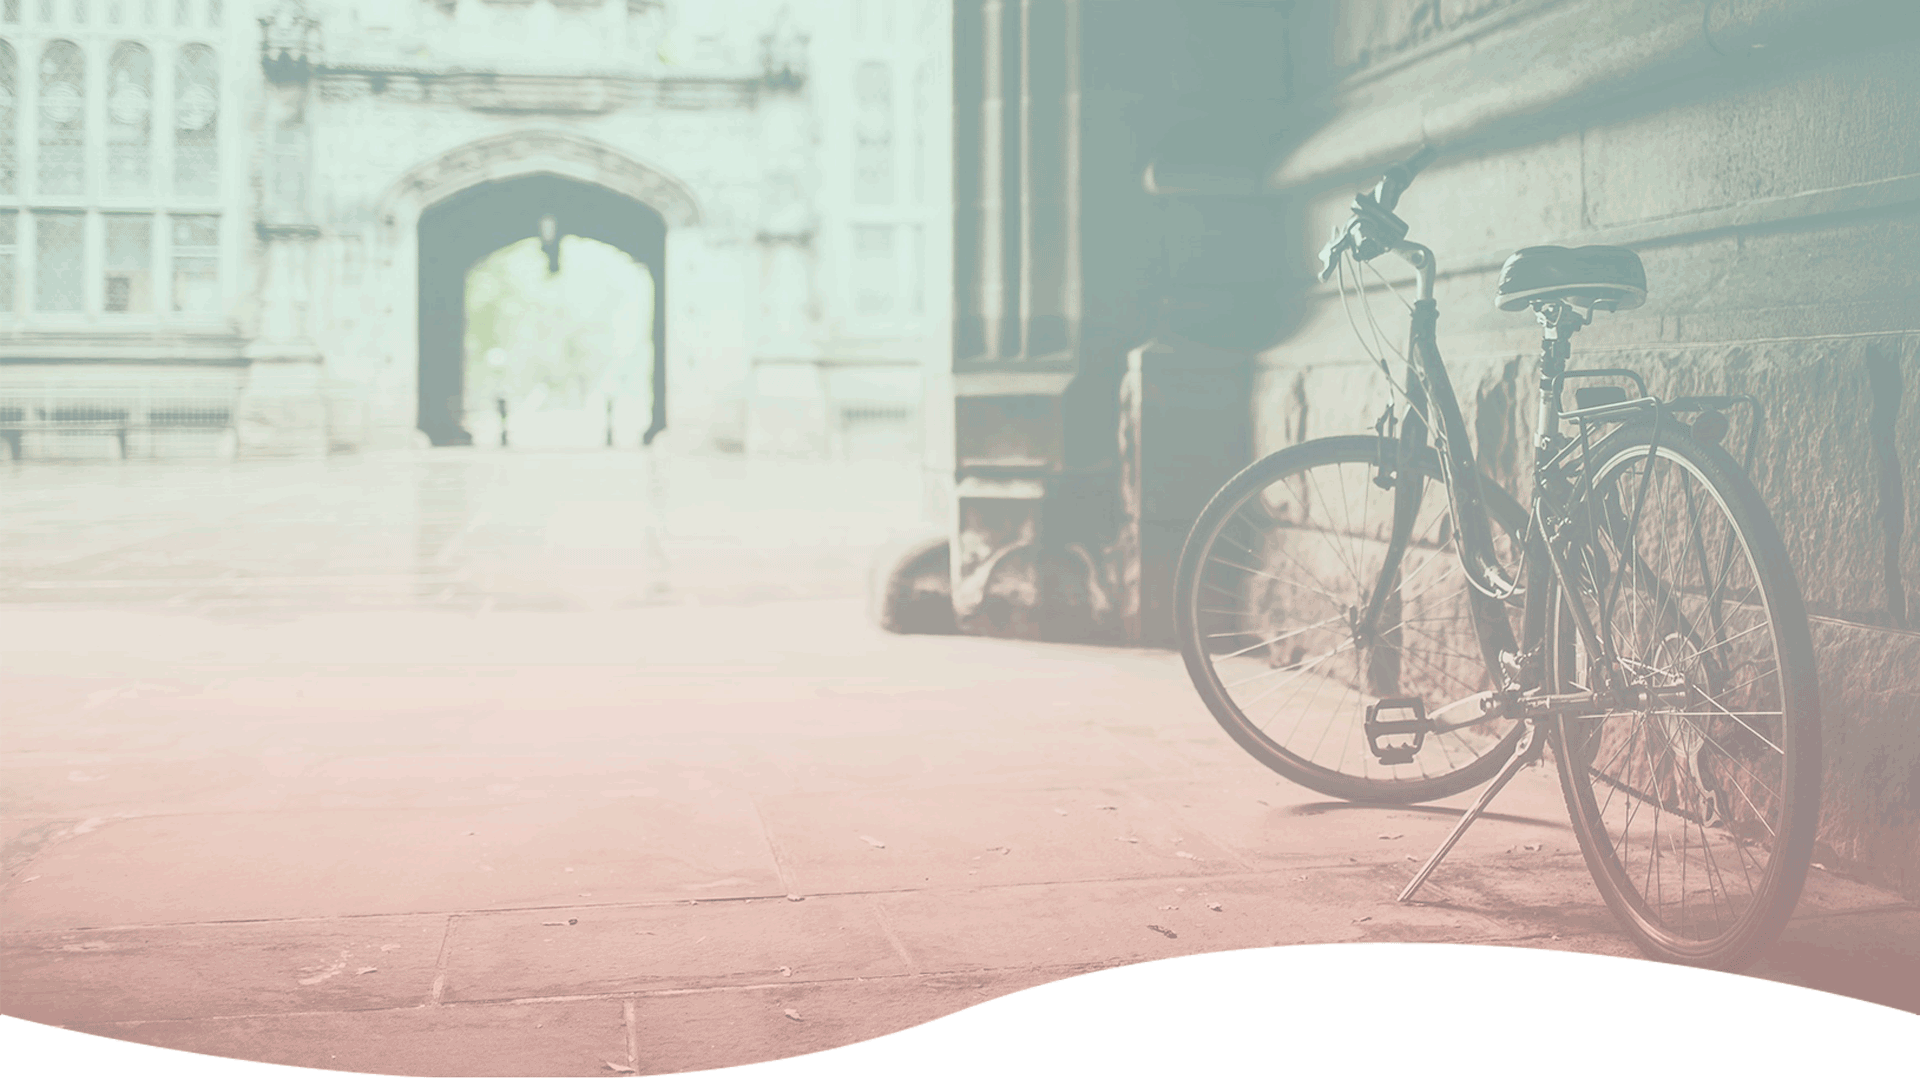
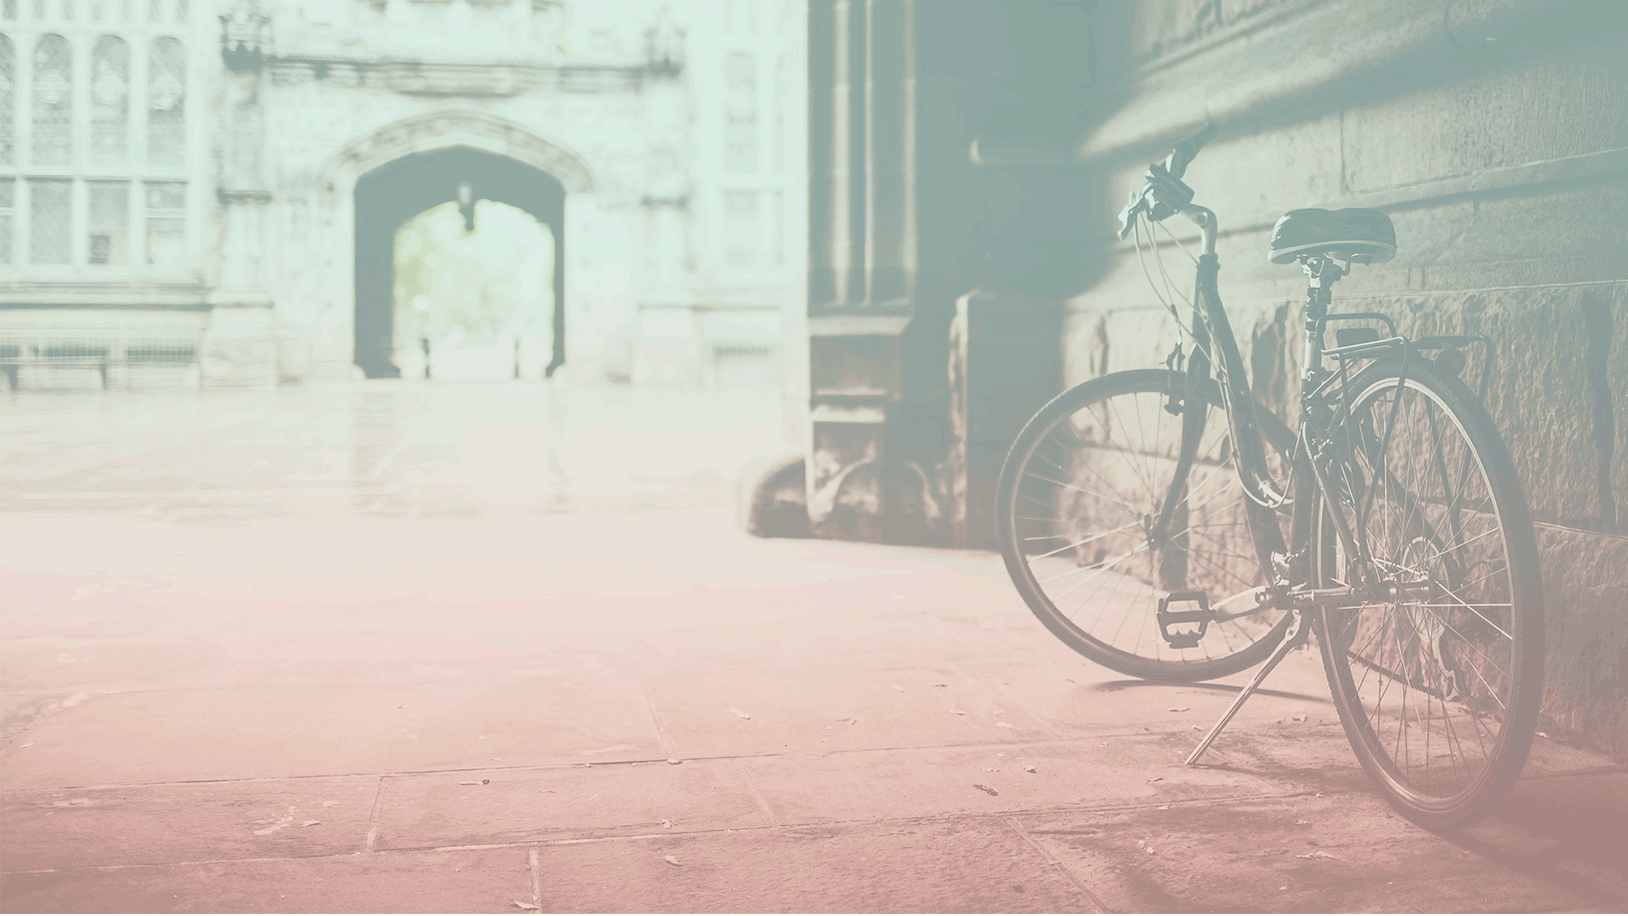
mise en place de la vague en svg et image header

Changed region(s): [[0.3378, 0.8559, 1.0, 1.0], [0.0, 0.917, 0.215, 1.0]]

diff --git a/gulpfile.js b/gulpfile.js
@@ -33,7 +33,7 @@ function styles() {
     ]))
     .pipe($.if(!isProd, $.sourcemaps.write()))
     .pipe(dest('.tmp/styles'))
-    .pipe(server.reload({stream: true}));
+    .pipe(server.reload({ stream: true }));
 };
 
 function scripts() {
@@ -43,7 +43,7 @@ function scripts() {
     .pipe($.babel())
     .pipe($.if(!isProd, $.sourcemaps.write('.')))
     .pipe(dest('.tmp/scripts'))
-    .pipe(server.reload({stream: true}));
+    .pipe(server.reload({ stream: true }));
 };
 
 async function modernizr() {
@@ -78,7 +78,7 @@ async function modernizr() {
 const lintBase = files => {
   return src(files)
     .pipe($.eslint({ fix: true }))
-    .pipe(server.reload({stream: true, once: true}))
+    .pipe(server.reload({ stream: true, once: true }))
     .pipe($.eslint.format())
     .pipe($.if(!server.active, $.eslint.failAfterError()));
 }
@@ -93,13 +93,13 @@ function lintTest() {
 
 function html() {
   return src('app/*.html')
-    .pipe($.useref({searchPath: ['.tmp', 'app', '.']}))
-    .pipe($.if(/\.js$/, $.uglify({compress: {drop_console: true}})))
-    .pipe($.if(/\.css$/, $.postcss([cssnano({safe: true, autoprefixer: false})])))
+    .pipe($.useref({ searchPath: ['.tmp', 'app', '.'] }))
+    .pipe($.if(/\.js$/, $.uglify({ compress: { drop_console: true } })))
+    .pipe($.if(/\.css$/, $.postcss([cssnano({ safe: true, autoprefixer: false })])))
     .pipe($.if(/\.html$/, $.htmlmin({
       collapseWhitespace: true,
       minifyCSS: true,
-      minifyJS: {compress: {drop_console: true}},
+      minifyJS: { compress: { drop_console: true } },
       processConditionalComments: true,
       removeComments: true,
       removeEmptyAttributes: true,
@@ -125,8 +125,8 @@ function extras() {
     'app/*',
     '!app/*.html'
   ], {
-    dot: true
-  }).pipe(dest('dist'));
+      dot: true
+    }).pipe(dest('dist'));
 };
 
 function clean() {
@@ -135,7 +135,7 @@ function clean() {
 
 function measureSize() {
   return src('dist/**/*')
-    .pipe($.size({title: 'build', gzip: true}));
+    .pipe($.size({ title: 'build', gzip: true }));
 }
 
 const build = series(

diff --git a/app/styles/main.scss b/app/styles/main.scss
@@ -16,11 +16,16 @@ body {
   background-color: #fffff0;
   font-family: 'Open sans', Arial, Helvetica, sans-serif;
   color: #323232;
+  overflow-X: hidden;
 }
 
 h1, h2, h3{
   font-family: 'Nunito', 'Open sans', Arial, Helvetica, sans-serif;
   text-align: center;
+}
+
+h2{
+  color: #f56358;
 }
 
 /*NAVIGATION*/
@@ -42,14 +47,10 @@ nav{
 header {
   padding-top:70px; 
   background: url(../images/Header.png) no-repeat center center fixed; 
-  -webkit-background-size: cover;
-  -moz-background-size: cover;
-  -o-background-size: cover;
   background-size: cover;
   height: 100vh;
   display: flex;
   align-items: center;
-  min-height: 500px;
 }
 
 #banniere{
@@ -68,9 +69,28 @@ h1{
   border: #fffff0 solid 3px;
 }
 
+.fa-chevron-down{
+  color: #fffff0;
+  font-size: 3em;
+  position: absolute;
+  top: 80%;
+}
+
+/* FONCTIONNEMENT */
+
+#vague{
+  position: relative;
+  width: 101%;
+  top:-100px;
+}
+
+#fonctionnement{
+  
+}
+
 /* [class*="col-"], footer {
   background-color: lightgreen;
-  border: 2px solid black;
+  outline: 2px solid black;
   border-radius: 6px;
   line-height: 40px;
   text-align: center;

diff --git a/app/index.html b/app/index.html
@@ -65,9 +65,24 @@
           <h1>La location de vélo en libre service à petit prix</h1>
         </div>
       </div>
+      <div class="row">
+        <div class="col-xs-1 mx-auto">
+          <i class="fas fa-chevron-down"></i>
+        </div>
+      </div>
     </div>
   </header>
 
+  <section id="fonctionnement">
+    <img src="images/Vague.svg" alt="" id="vague">
+    <div class="container">
+      <div class="row">
+        <div class="col-xs-8 mx-auto">
+          <h2>Comment ça fonctionne ?</h2>
+        </div>
+      </div>
+    </div>
+  </section>
 
   <script type="text/javascript" src="/node_modules/jquery/dist/jquery.min.js"></script>
   <script type="text/javascript" src="/node_modules/bootstrap/dist/js/bootstrap.min.js"></script>
